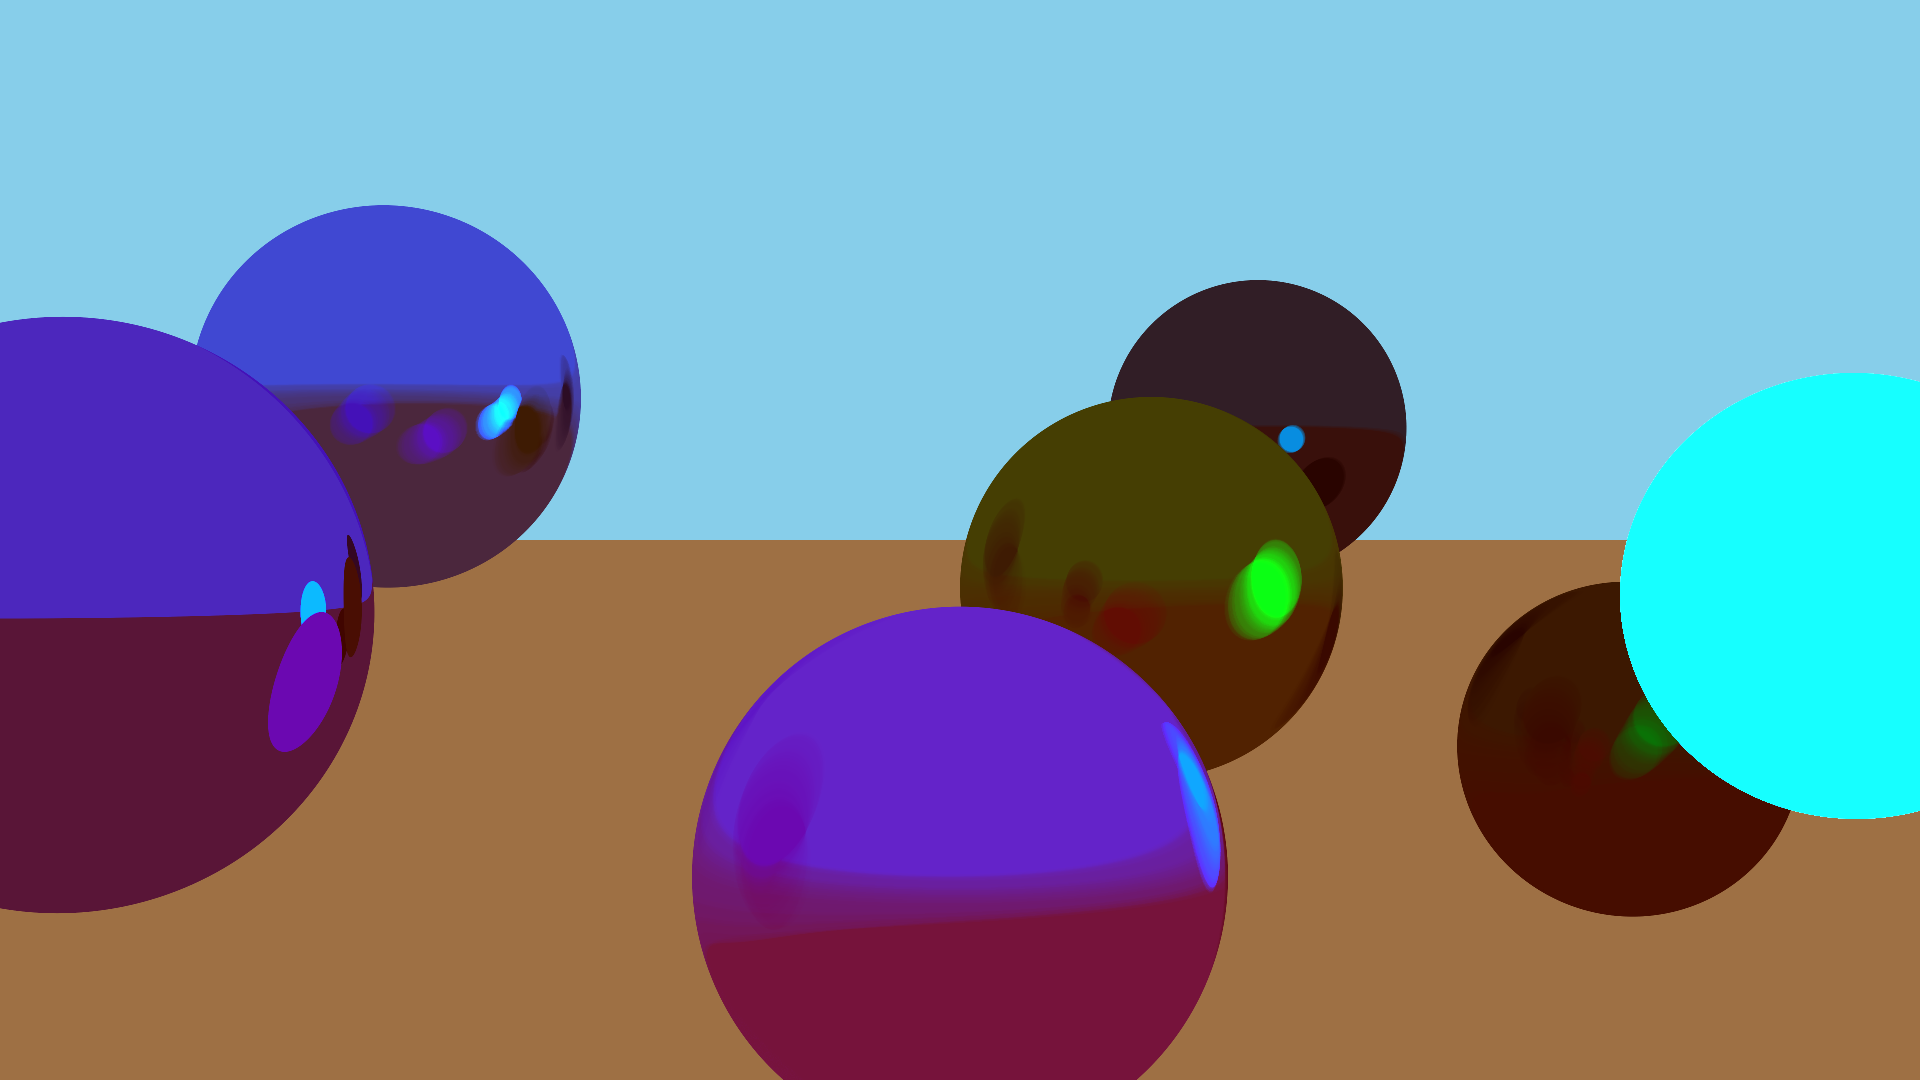
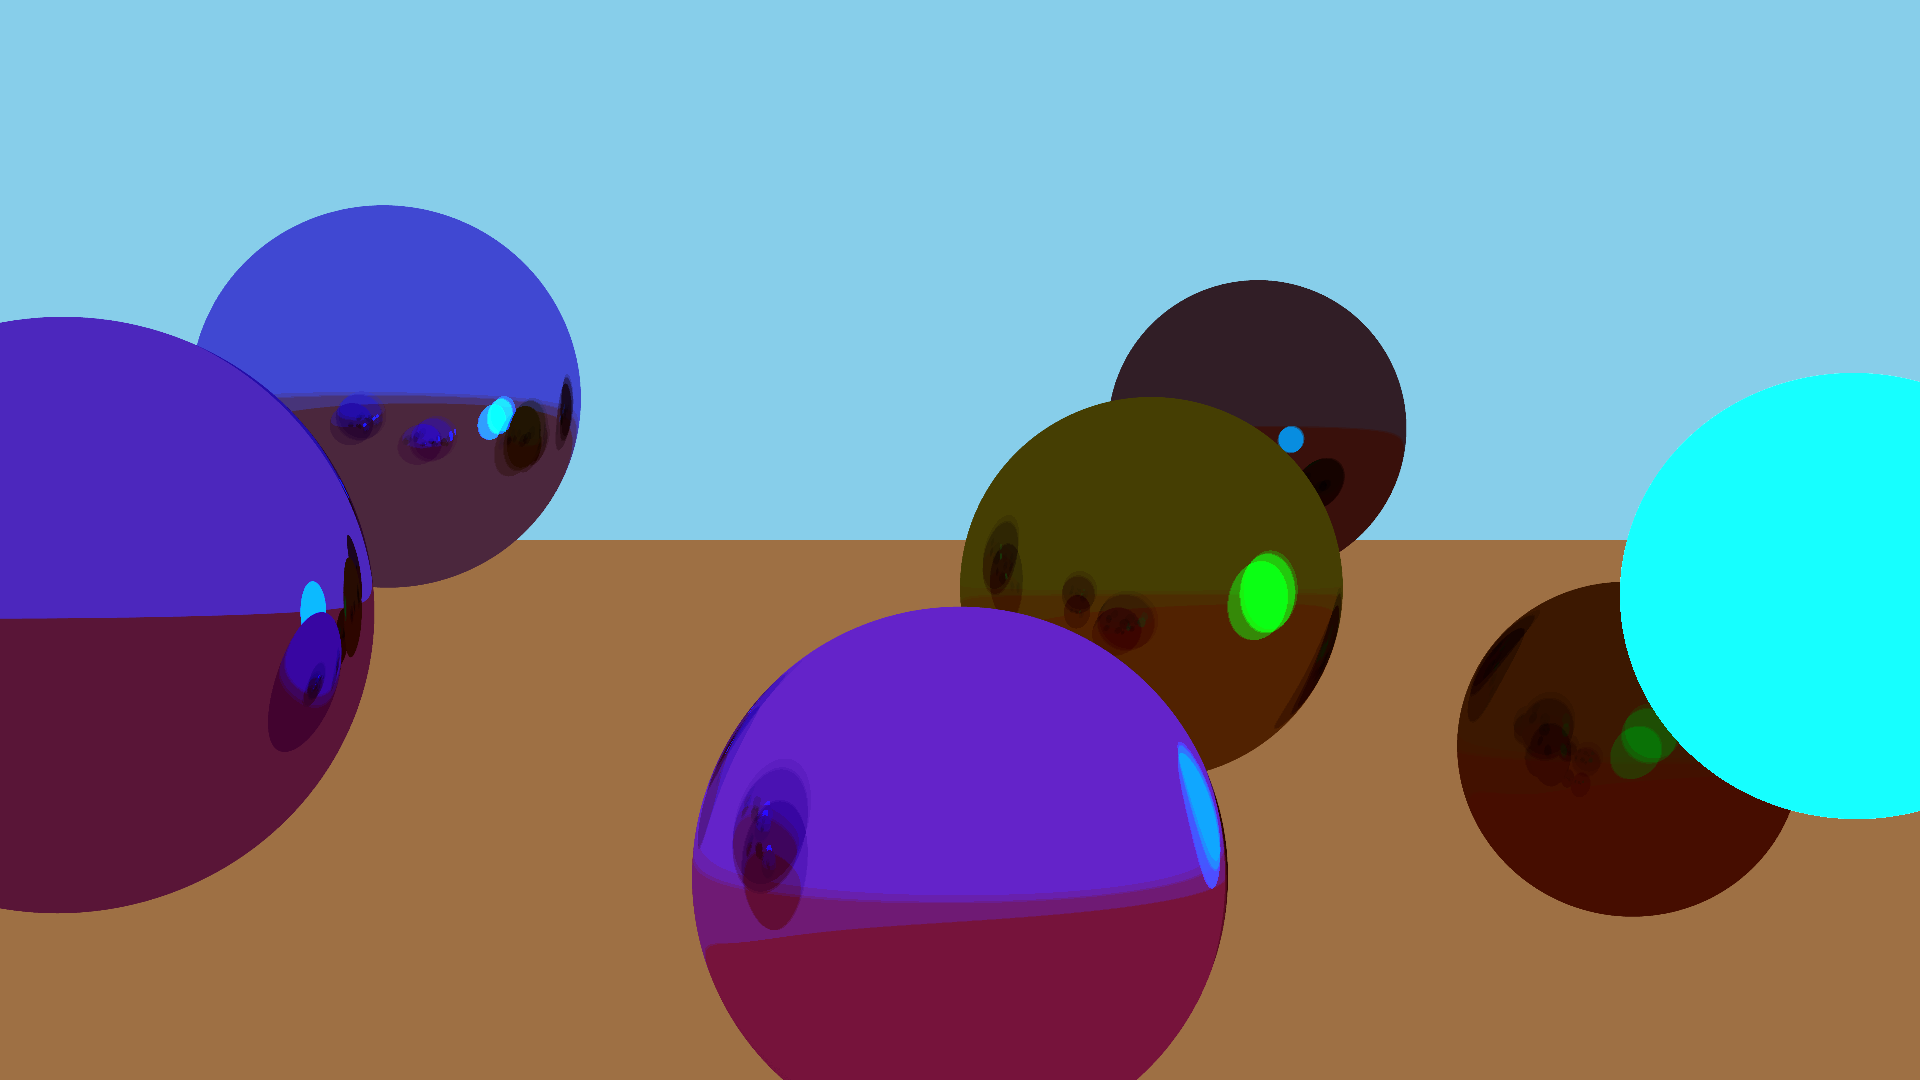
Adding tinyobjloader, and some general cleanup

diff --git a/RayTracer/main.cpp b/RayTracer/main.cpp
@@ -60,7 +60,9 @@ struct CommandLineArguments
         RenderCPU = false;
         RenderGPU = true;
         GPUDebugEnabled = false;
+        TracePerformance = false;
         Samples = 1;
+        MaxBounces = 4;
         ResolutionX = 1920;
         ResolutionY = 1080;
         MaxThreads = 0;
@@ -70,7 +72,9 @@ struct CommandLineArguments
     bool RenderCPU;
     bool RenderGPU;
     bool GPUDebugEnabled;
+    bool TracePerformance;
     unsigned int Samples;
+    size_t MaxBounces;
     size_t ResolutionX;
     size_t ResolutionY;
     size_t MaxThreads;
@@ -86,6 +90,13 @@ static void parse_command_line_arguments(int argc, char** argv, CommandLineArgum
     {
         unsigned int samples = (unsigned int)std::stoul(samples_string);
         arguments.Samples = samples;
+    }
+
+    const std::string max_bounces_string = parser.GetCommandOption("-b");
+    if (0 != max_bounces_string.compare(""))
+    {
+        size_t max_bounces = (size_t)std::stoul(max_bounces_string);
+        arguments.MaxBounces = max_bounces;
     }
     
     const std::string resolution_x_string = parser.GetCommandOption("-x");
@@ -118,22 +129,27 @@ static void parse_command_line_arguments(int argc, char** argv, CommandLineArgum
     bool gpu_debug = parser.CommandOptionExists("-dg");
     arguments.GPUDebugEnabled = gpu_debug;
 
+    bool trace_performance = parser.CommandOptionExists("-t");
+    arguments.TracePerformance = trace_performance;
+
     bool show_help = parser.CommandOptionExists("-h");
     arguments.ShowHelp = show_help;
 }
 
 static void help()
 {
-    std::cout << "RayTracer.exe" << std::endl
-        << "\tArguments:" << std::endl
-        << "\t\t-h : show help" << std::endl
-        << "\t\t-c : render on CPU" << std::endl
-        << "\t\t-g : render on GPU" << std::endl
-        << "\t\t-dg : enable GPU debug messages" << std::endl
-        << "\t\t-s <samples> : set sample count [ default 1 ]" << std::endl
-        << "\t\t-x <x resolution> : set image width (pixels) [ default 1920 ]" << std::endl
-        << "\t\t-y <y resolution> : set image height (pixels) [ default 1080 ]" << std::endl
-        << "\t\t-m <max threads> : set the max number of threads the cpu renderer can use [ default inf ]" << std::endl;
+    std::cout << "RayTracer.exe\n"
+        << "\tArguments:\n"
+        << "\t\t-h : show help\n"
+        << "\t\t-c : render on CPU\n"
+        << "\t\t-g : render on GPU\n"
+        << "\t\t-dg : enable GPU debug messages\n"
+        << "\t\t-t : enable performance tracing\n"
+        << "\t\t-s <samples> : set sample count [ default 1 ]\n"
+        << "\t\t-b <bounces> : set max bounces [ default 4 ]\n"
+        << "\t\t-x <x resolution> : set image width (pixels) [ default 1920 ]\n"
+        << "\t\t-y <y resolution> : set image height (pixels) [ default 1080 ]\n"
+        << "\t\t-m <max threads> : set the max number of threads the cpu renderer can use [ default inf ]\n";
 }
 
 static bool write_png_file(const std::string &file_name, const std::vector<std::vector<png_byte>> &color_values)
@@ -308,8 +324,8 @@ int main(int argc, char **argv)
         std::cout << std::endl << "Rendering on GPU" << std::endl;
         GPURenderer::GPURendererInitParameters init_params(*camera, *scene);
         init_params.samples = arguments.Samples;
-        init_params.max_bounces = 2;
-        init_params.trace_performance = false;
+        init_params.max_bounces = arguments.MaxBounces;
+        init_params.trace_performance = arguments.TracePerformance;
         GPURenderer gpu_renderer(init_params);
         gpu_renderer.Render(out_image);
     }

diff --git a/RayTracerLib/GPUComputeShader.cpp b/RayTracerLib/GPUComputeShader.cpp
@@ -215,11 +215,16 @@ void GPUComputeShader::Execute(uint32_t compute_queue_index, size_t total_comput
 	submitInfo.commandBufferCount = 1;
 	submitInfo.pCommandBuffers = commandBuffers.data();
 
-	vk::Result queue_submit_result = queue.submit(1, &submitInfo, VK_NULL_HANDLE);
-	if (vk::Result::eSuccess == queue_submit_result)
 	{
-		queue.waitIdle();
+		// TODO: This takes a long time (relatively) so it should be batched where possible
+		TRACE_SCOPE(performance_session, queue_submission);
+		vk::Result queue_submit_result = queue.submit(1, &submitInfo, VK_NULL_HANDLE);
+		if (vk::Result::eSuccess == queue_submit_result)
+		{
+			queue.waitIdle();
+		}
 	}
 
+	Device.freeCommandBuffers(commandPool, commandBuffers);
 	Device.destroyCommandPool(commandPool);
 }

diff --git a/RayTracerLib/TinyOBJLoader.cpp b/RayTracerLib/TinyOBJLoader.cpp
@@ -1,0 +1,2 @@
+#define TINYOBJLOADER_IMPLEMENTATION
+#include "tiny_obj_loader.h"
